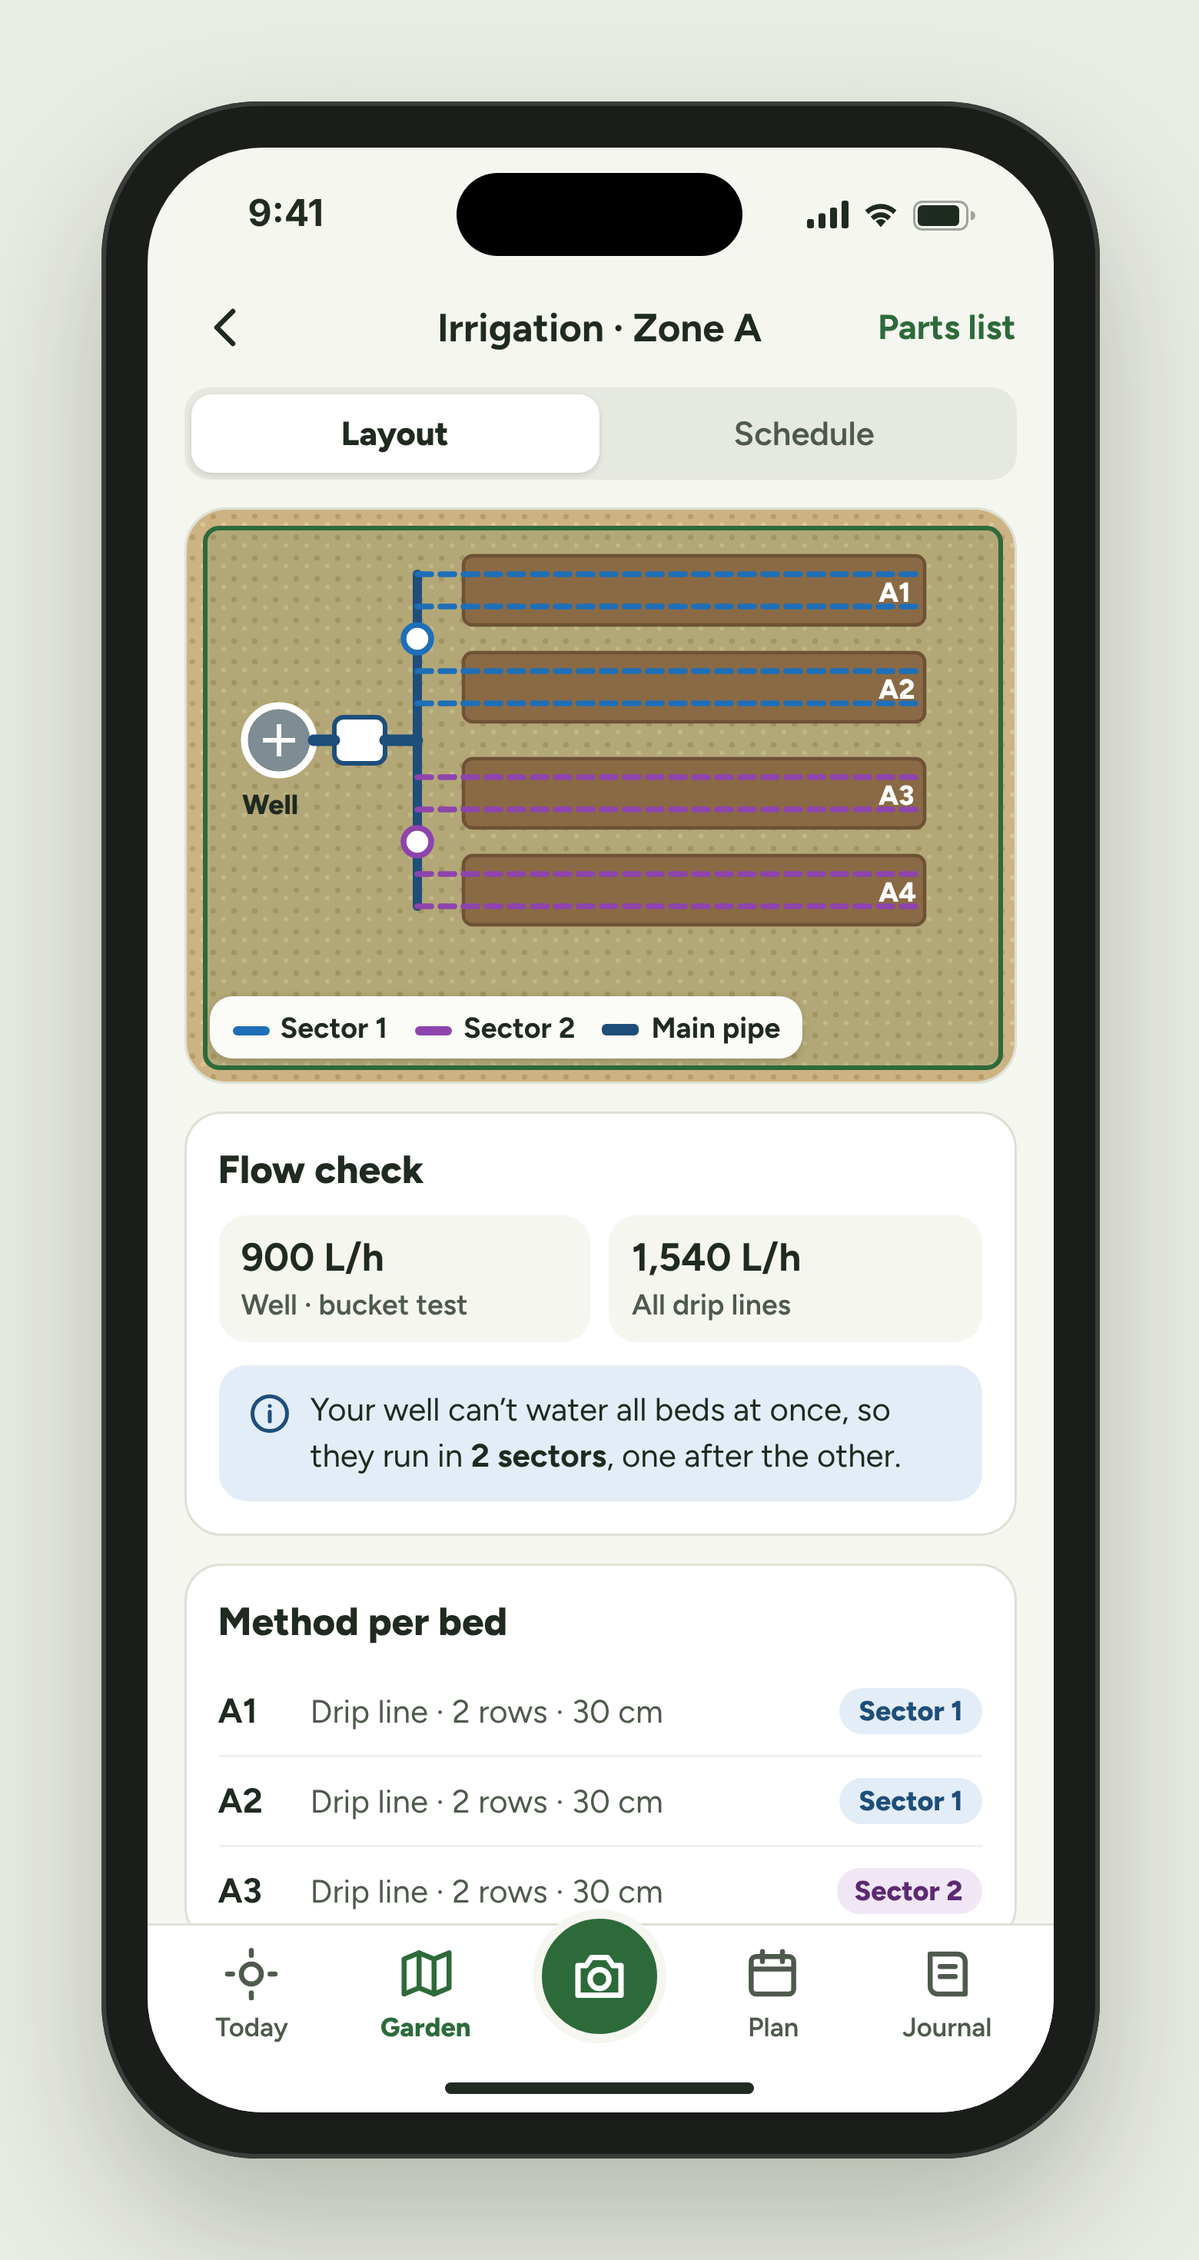
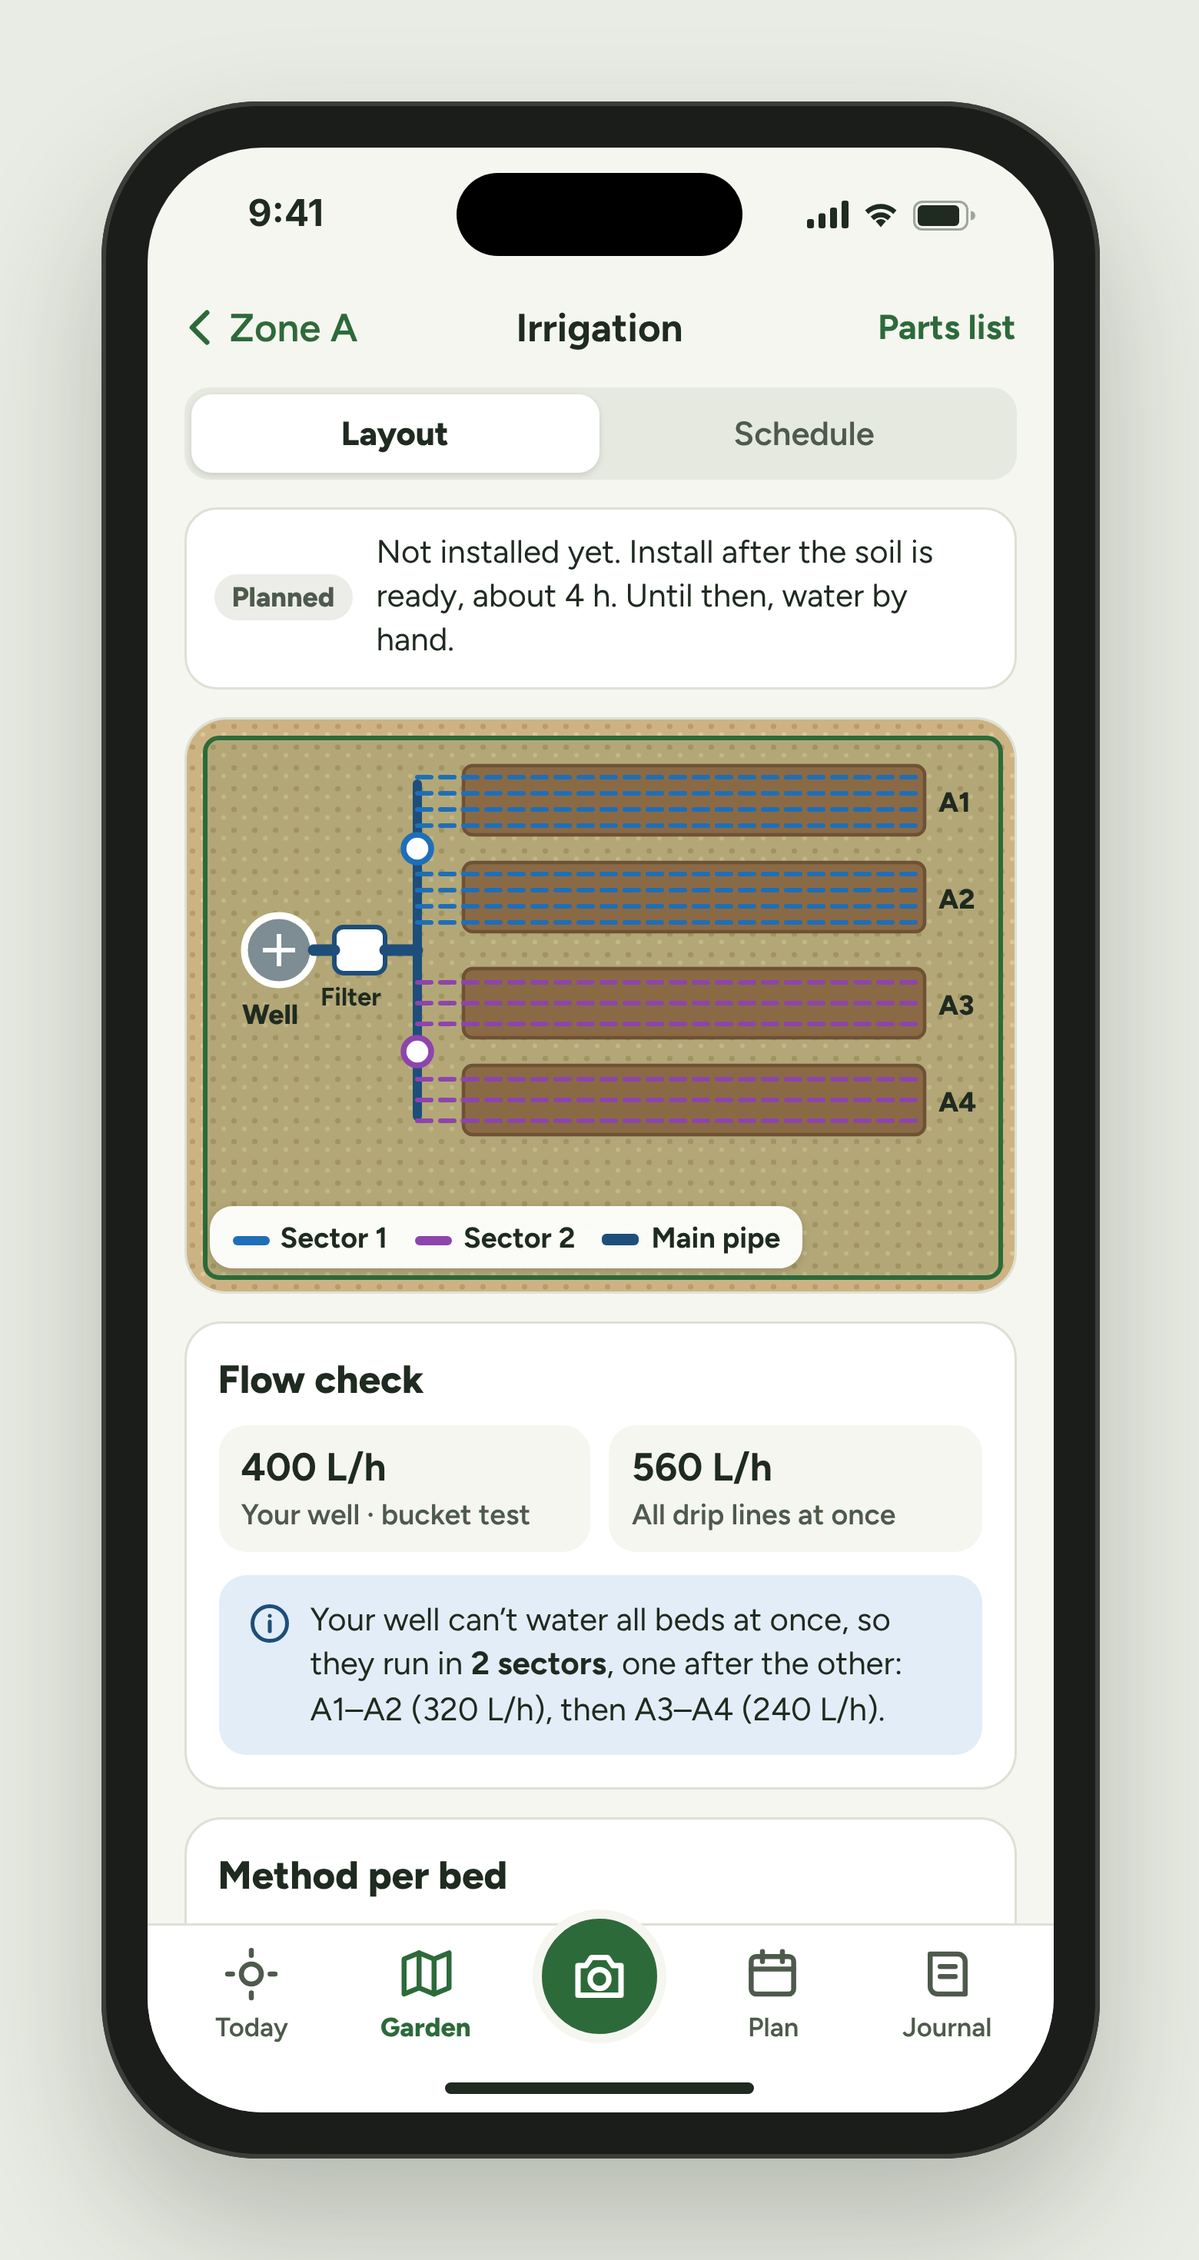
Design C6 irrigation planner: Zone A back label, planned status, consistent flow numbers and lines per bed
Claude-Session: https://claude.ai/code/session_015NynAjU4naPZwzmeuGazot

Changed region(s): [[0.1538, 0.2167, 0.8615, 0.8667], [0.3692, 0.1238, 0.6462, 0.1548], [0.1538, 0.1238, 0.3077, 0.1548]]

diff --git a/design/source/C6-irrigation-planner-full.html b/design/source/C6-irrigation-planner-full.html
@@ -1,0 +1,133 @@
+<!doctype html>
+<html lang="en">
+<head>
+<meta charset="utf-8">
+<title>C6 Irrigation planner</title>
+<link href="https://fonts.googleapis.com/css2?family=Figtree:wght@400;500;600;700;800&display=swap" rel="stylesheet">
+<link rel="stylesheet" href="frame.css">
+<style>
+  .nav { display: flex; align-items: center; gap: 8px; padding: 0 12px; height: 48px; flex: none; }
+  .nav .back { width: 44px; height: 44px; display: flex; align-items: center; justify-content: center; }
+  .nav .title { flex: 1; font-size: 17px; font-weight: 700; text-align: center; }
+  .nav .act { font-size: 15px; font-weight: 700; color: var(--green); width: 84px; text-align: right; padding-right: 4px; }
+  .content { flex: 1; overflow: hidden; padding: 2px 16px 0; display: flex; flex-direction: column; gap: 12px; }
+  .seg { display: grid; grid-template-columns: repeat(2, minmax(0, 1fr)); background: #E6E9E0; border-radius: 11px; padding: 3px; flex: none; }
+  .seg span { height: 34px; display: flex; align-items: center; justify-content: center; border-radius: 9px; font-size: 14.5px; font-weight: 600; color: var(--muted); }
+  .seg span.on { background: #fff; color: var(--text); font-weight: 800; box-shadow: 0 1px 3px rgba(0,0,0,.12); }
+  .mapcard { border-radius: 18px; overflow: hidden; position: relative; flex: none; height: 250px; border: 1px solid var(--line); }
+  .legend { position: absolute; left: 10px; bottom: 10px; background: rgba(255,255,255,.95); border-radius: 10px; padding: 6px 10px; display: flex; gap: 12px; font-size: 12.5px; font-weight: 700; box-shadow: 0 1px 4px rgba(0,0,0,.15); }
+  .legend i { display: inline-block; width: 16px; height: 4px; border-radius: 2px; vertical-align: middle; margin-right: 5px; }
+  .card { background: #fff; border: 1px solid var(--line); border-radius: 16px; padding: 14px; display: flex; flex-direction: column; gap: 10px; }
+  .card h2 { margin: 0; font-size: 17px; font-weight: 800; }
+  .flow { display: flex; gap: 8px; }
+  .flow div { flex: 1; background: var(--bg); border-radius: 12px; padding: 8px 10px; }
+  .flow strong { display: block; font-size: 17px; }
+  .flow span { font-size: 12.5px; color: var(--muted); font-weight: 600; }
+  .note { display: flex; gap: 8px; align-items: flex-start; font-size: 14px; color: var(--text); line-height: 1.4; background: var(--blue-soft); border-radius: 12px; padding: 10px 12px; }
+  .bed { display: flex; align-items: center; gap: 10px; padding: 9px 0; border-bottom: 1px solid #EEF0EA; font-size: 15px; }
+  .bed:last-child { border-bottom: none; padding-bottom: 0; }
+  .bed b { width: 30px; }
+  .bed .m { flex: 1; color: var(--muted); font-size: 14px; }
+  .pill { font-size: 12px; font-weight: 800; padding: 3px 8px; border-radius: 999px; }
+  .s1 { background: #E3EDF7; color: #1E4E7A; }
+  .s2 { background: #F1E6F6; color: #5B2A73; }
+  nav.tabs { flex: none; background: #fff; border-top: 1px solid var(--line); padding: 8px 8px 30px; display: grid; grid-template-columns: repeat(5, minmax(0, 1fr)); align-items: end; position: relative; z-index: 10; }
+  nav.tabs a { color: var(--muted); display: flex; flex-direction: column; align-items: center; gap: 3px; font-size: 11.5px; font-weight: 600; text-decoration: none; }
+  nav.tabs a.on { color: var(--green); font-weight: 800; }
+  .cam { width: 58px; height: 58px; border-radius: 999px; background: var(--green); display: flex; align-items: center; justify-content: center; margin-top: -24px; border: 4px solid var(--bg); }
+</style>
+<style>.stage{height:1180px}.phone{height:1120px}.screen{height:1080px}</style>
+</head>
+<body>
+<div class="stage"><div class="phone"><div class="screen">
+  <div class="island"></div>
+  <div class="status">
+    <span>9:41</span>
+    <span class="icons">
+      <svg width="18" height="12" viewBox="0 0 18 12"><rect x="0" y="8" width="3" height="4" rx="1" fill="#1F2A20"/><rect x="5" y="5.5" width="3" height="6.5" rx="1" fill="#1F2A20"/><rect x="10" y="3" width="3" height="9" rx="1" fill="#1F2A20"/><rect x="15" y="0" width="3" height="12" rx="1" fill="#1F2A20"/></svg>
+      <svg width="16" height="12" viewBox="0 0 16 12"><path d="M8 11.5l2.2-2.6a3.2 3.2 0 0 0-4.4 0z" fill="#1F2A20"/><path d="M3.6 6.9a6.3 6.3 0 0 1 8.8 0l-1.4 1.6a4.2 4.2 0 0 0-6 0z" fill="#1F2A20"/><path d="M1.2 4.2a9.7 9.7 0 0 1 13.6 0l-1.4 1.6a7.6 7.6 0 0 0-10.8 0z" fill="#1F2A20"/></svg>
+      <svg width="27" height="13" viewBox="0 0 27 13"><rect x="0.5" y="0.5" width="23" height="12" rx="3.5" fill="none" stroke="#1F2A20" opacity=".4"/><rect x="2" y="2" width="18" height="9" rx="2" fill="#1F2A20"/><path d="M25 4.5v4a2 2 0 0 0 0-4z" fill="#1F2A20" opacity=".4"/></svg>
+    </span>
+  </div>
+
+  <div class="nav">
+    <div class="back" style="width: 84px; justify-content: flex-start; gap: 2px; color: var(--green); font-size: 17px; font-weight: 600"><svg width="22" height="22" viewBox="0 0 24 24" fill="none" stroke="#2D6A3A" stroke-width="2.4" stroke-linecap="round" stroke-linejoin="round"><path d="M15 5l-7 7 7 7"/></svg>Zone A</div>
+    <div class="title">Irrigation</div>
+    <div class="act">Parts list</div>
+  </div>
+
+  <div class="content">
+    <div class="seg"><span class="on">Layout</span><span>Schedule</span></div>
+    <div style="display: flex; gap: 10px; align-items: center; background: #fff; border: 1px solid var(--line); border-radius: 14px; padding: 10px 12px; flex: none">
+      <span style="font-size: 12px; font-weight: 800; padding: 3px 8px; border-radius: 999px; background: #ECEDE8; color: #4E5A4C; flex: none">Planned</span>
+      <span style="font-size: 14px; line-height: 1.35">Not installed yet. Install after the soil is ready, about 4 h. Until then, water by hand.</span>
+    </div>
+
+    <div class="mapcard">
+      <svg width="361" height="250" viewBox="0 0 361 250" aria-hidden="true">
+        <defs>
+          <pattern id="dry" width="9" height="9" patternUnits="userSpaceOnUse"><rect width="9" height="9" fill="#CDB383"/><circle cx="2.5" cy="3" r="1.2" fill="#B89C69"/><circle cx="7" cy="6.5" r="1" fill="#DCC797"/></pattern>
+        </defs>
+        <rect width="361" height="250" fill="url(#dry)"/>
+        <rect x="8" y="8" width="345" height="234" rx="6" fill="rgba(45,106,58,.16)" stroke="#2D6A3A" stroke-width="2"/>
+        <!-- beds -->
+        <g fill="#8A6A45" stroke="#6E5235" stroke-width="1.5">
+          <rect x="120" y="20" width="200" height="30" rx="4"/>
+          <rect x="120" y="62" width="200" height="30" rx="4"/>
+          <rect x="120" y="108" width="200" height="30" rx="4"/>
+          <rect x="120" y="150" width="200" height="30" rx="4"/>
+        </g>
+        <g font-family="Figtree, sans-serif" font-size="12" font-weight="800" fill="#fff">
+          <text x="326" y="40" fill="#1F2A20">A1</text><text x="326" y="82" fill="#1F2A20">A2</text><text x="326" y="128" fill="#1F2A20">A3</text><text x="326" y="170" fill="#1F2A20">A4</text>
+        </g>
+        <circle cx="40" cy="100" r="15" fill="#7E8C93" stroke="#fff" stroke-width="3"/>
+        <path d="M33 100h14M40 93v14" stroke="#fff" stroke-width="2"/>
+        <rect x="64" y="90" width="22" height="20" rx="4" fill="#fff" stroke="#1E4E7A" stroke-width="2"/>
+        <path d="M55 100 H64 M86 100 H100" stroke="#1E4E7A" stroke-width="5" stroke-linecap="round"/>
+        <path d="M100 28 V172" stroke="#1E4E7A" stroke-width="4" stroke-linecap="round"/>
+        <circle cx="100" cy="56" r="6" fill="#fff" stroke="#1E6FB8" stroke-width="2.5"/>
+        <circle cx="100" cy="144" r="6" fill="#fff" stroke="#8E44AD" stroke-width="2.5"/>
+        <g stroke="#1E6FB8" stroke-width="2" stroke-dasharray="6 4" stroke-linecap="round"><path d="M100 25 H316"/><path d="M100 32 H316"/><path d="M100 39 H316"/><path d="M100 46 H316"/><path d="M100 67 H316"/><path d="M100 74 H316"/><path d="M100 81 H316"/><path d="M100 88 H316"/></g>
+        <g stroke="#8E44AD" stroke-width="2" stroke-dasharray="6 4" stroke-linecap="round"><path d="M100 114 H316"/><path d="M100 123 H316"/><path d="M100 132 H316"/><path d="M100 156 H316"/><path d="M100 165 H316"/><path d="M100 174 H316"/></g>
+        <text x="24" y="132" font-family="Figtree, sans-serif" font-size="12" font-weight="800" fill="#1F2A20">Well</text><text x="58" y="124" font-family="Figtree, sans-serif" font-size="11" font-weight="700" fill="#1F2A20">Filter</text>
+      </svg>
+      <div class="legend"><span><i style="background:#1E6FB8"></i>Sector 1</span><span><i style="background:#8E44AD"></i>Sector 2</span><span><i style="background:#1E4E7A; height: 5px"></i>Main pipe</span></div>
+    </div>
+
+    <div class="card">
+      <h2>Flow check</h2>
+      <div class="flow">
+        <div><strong>400 L/h</strong><span>Your well · bucket test</span></div>
+        <div><strong>560 L/h</strong><span>All drip lines at once</span></div>
+      </div>
+      <div class="note">
+        <svg width="20" height="20" viewBox="0 0 24 24" fill="none" stroke="#1E4E7A" stroke-width="2" stroke-linecap="round" stroke-linejoin="round" style="flex: none; margin-top: 1px"><circle cx="12" cy="12" r="9"/><path d="M12 11v5M12 8v.01"/></svg>
+        <span>Your well can’t water all beds at once, so they run in <b>2 sectors</b>, one after the other: A1–A2 (320 L/h), then A3–A4 (240 L/h).</span>
+      </div>
+    </div>
+
+    <div class="card" style="padding-bottom: 12px">
+      <h2>Method per bed</h2>
+      <div>
+        <div class="bed"><b>A1</b><span class="m">Drip · 4 lines · garlic, onions</span><span class="pill s1">Sector 1</span></div>
+        <div class="bed"><b>A2</b><span class="m">Drip · 4 lines · beans, peas</span><span class="pill s1">Sector 1</span></div>
+        <div class="bed"><b>A3</b><span class="m">Drip · 3 lines · lettuce</span><span class="pill s2">Sector 2</span></div>
+        <div class="bed"><b>A4</b><span class="m">Drip · 3 lines · lettuce</span><span class="pill s2">Sector 2</span></div>
+      </div>
+      <div style="font-size: 13px; color: var(--muted); font-weight: 600">One line per row · drippers every 30 cm · 2 L/h each</div>
+      <div style="display: none">
+      </div>
+    </div>
+  </div>
+
+  <nav class="tabs" aria-label="Main">
+    <a><svg width="26" height="26" viewBox="0 0 24 24" fill="none" stroke="currentColor" stroke-width="2" stroke-linecap="round"><circle cx="12" cy="12" r="4"/><path d="M12 2.5v2M12 19.5v2M2.5 12h2M19.5 12h2"/></svg>Today</a>
+    <a class="on"><svg width="26" height="26" viewBox="0 0 24 24" fill="none" stroke="currentColor" stroke-width="2" stroke-linecap="round" stroke-linejoin="round"><path d="M3 6l6-2.5 6 2.5 6-2.5v14l-6 2.5-6-2.5-6 2.5z"/><path d="M9 3.5v14M15 6v14"/></svg>Garden</a>
+    <a style="justify-content: center"><span class="cam"><svg width="28" height="28" viewBox="0 0 24 24" fill="none" stroke="#fff" stroke-width="2" stroke-linecap="round" stroke-linejoin="round"><path d="M4 8h3l2-3h6l2 3h3v11H4z"/><circle cx="12" cy="13" r="3.5"/></svg></span></a>
+    <a><svg width="26" height="26" viewBox="0 0 24 24" fill="none" stroke="currentColor" stroke-width="2" stroke-linecap="round" stroke-linejoin="round"><rect x="3.5" y="5" width="17" height="15" rx="2"/><path d="M3.5 10h17M8 3v4M16 3v4"/></svg>Plan</a>
+    <a><svg width="26" height="26" viewBox="0 0 24 24" fill="none" stroke="currentColor" stroke-width="2" stroke-linecap="round" stroke-linejoin="round"><path d="M5 4h11a3 3 0 0 1 3 3v13H8a3 3 0 0 1-3-3z"/><path d="M9 9h6M9 13h6"/></svg>Journal</a>
+  </nav>
+  <div class="home"></div>
+</div></div></div>
+</body>
+</html>

diff --git a/design/source/C6-irrigation-planner.html b/design/source/C6-irrigation-planner.html
@@ -50,13 +50,17 @@
   </div>
 
   <div class="nav">
-    <div class="back"><svg width="24" height="24" viewBox="0 0 24 24" fill="none" stroke="#1F2A20" stroke-width="2.2" stroke-linecap="round" stroke-linejoin="round"><path d="M15 5l-7 7 7 7"/></svg></div>
-    <div class="title" style="margin-left: 40px">Irrigation · Zone A</div>
+    <div class="back" style="width: 84px; justify-content: flex-start; gap: 2px; color: var(--green); font-size: 17px; font-weight: 600"><svg width="22" height="22" viewBox="0 0 24 24" fill="none" stroke="#2D6A3A" stroke-width="2.4" stroke-linecap="round" stroke-linejoin="round"><path d="M15 5l-7 7 7 7"/></svg>Zone A</div>
+    <div class="title">Irrigation</div>
     <div class="act">Parts list</div>
   </div>
 
   <div class="content">
     <div class="seg"><span class="on">Layout</span><span>Schedule</span></div>
+    <div style="display: flex; gap: 10px; align-items: center; background: #fff; border: 1px solid var(--line); border-radius: 14px; padding: 10px 12px; flex: none">
+      <span style="font-size: 12px; font-weight: 800; padding: 3px 8px; border-radius: 999px; background: #ECEDE8; color: #4E5A4C; flex: none">Planned</span>
+      <span style="font-size: 14px; line-height: 1.35">Not installed yet. Install after the soil is ready, about 4 h. Until then, water by hand.</span>
+    </div>
 
     <div class="mapcard">
       <svg width="361" height="250" viewBox="0 0 361 250" aria-hidden="true">
@@ -73,7 +77,7 @@
           <rect x="120" y="150" width="200" height="30" rx="4"/>
         </g>
         <g font-family="Figtree, sans-serif" font-size="12" font-weight="800" fill="#fff">
-          <text x="300" y="40">A1</text><text x="300" y="82">A2</text><text x="300" y="128">A3</text><text x="300" y="170">A4</text>
+          <text x="326" y="40" fill="#1F2A20">A1</text><text x="326" y="82" fill="#1F2A20">A2</text><text x="326" y="128" fill="#1F2A20">A3</text><text x="326" y="170" fill="#1F2A20">A4</text>
         </g>
         <circle cx="40" cy="100" r="15" fill="#7E8C93" stroke="#fff" stroke-width="3"/>
         <path d="M33 100h14M40 93v14" stroke="#fff" stroke-width="2"/>
@@ -82,13 +86,9 @@
         <path d="M100 28 V172" stroke="#1E4E7A" stroke-width="4" stroke-linecap="round"/>
         <circle cx="100" cy="56" r="6" fill="#fff" stroke="#1E6FB8" stroke-width="2.5"/>
         <circle cx="100" cy="144" r="6" fill="#fff" stroke="#8E44AD" stroke-width="2.5"/>
-        <g stroke="#1E6FB8" stroke-width="2.5" stroke-dasharray="6 4" stroke-linecap="round">
-          <path d="M100 28 H316"/><path d="M100 42 H316"/><path d="M100 70 H316"/><path d="M100 84 H316"/>
-        </g>
-        <g stroke="#8E44AD" stroke-width="2.5" stroke-dasharray="6 4" stroke-linecap="round">
-          <path d="M100 116 H316"/><path d="M100 130 H316"/><path d="M100 158 H316"/><path d="M100 172 H316"/>
-        </g>
-        <text x="24" y="132" font-family="Figtree, sans-serif" font-size="12" font-weight="800" fill="#1F2A20">Well</text>
+        <g stroke="#1E6FB8" stroke-width="2" stroke-dasharray="6 4" stroke-linecap="round"><path d="M100 25 H316"/><path d="M100 32 H316"/><path d="M100 39 H316"/><path d="M100 46 H316"/><path d="M100 67 H316"/><path d="M100 74 H316"/><path d="M100 81 H316"/><path d="M100 88 H316"/></g>
+        <g stroke="#8E44AD" stroke-width="2" stroke-dasharray="6 4" stroke-linecap="round"><path d="M100 114 H316"/><path d="M100 123 H316"/><path d="M100 132 H316"/><path d="M100 156 H316"/><path d="M100 165 H316"/><path d="M100 174 H316"/></g>
+        <text x="24" y="132" font-family="Figtree, sans-serif" font-size="12" font-weight="800" fill="#1F2A20">Well</text><text x="58" y="124" font-family="Figtree, sans-serif" font-size="11" font-weight="700" fill="#1F2A20">Filter</text>
       </svg>
       <div class="legend"><span><i style="background:#1E6FB8"></i>Sector 1</span><span><i style="background:#8E44AD"></i>Sector 2</span><span><i style="background:#1E4E7A; height: 5px"></i>Main pipe</span></div>
     </div>
@@ -96,21 +96,25 @@
     <div class="card">
       <h2>Flow check</h2>
       <div class="flow">
-        <div><strong>900 L/h</strong><span>Well · bucket test</span></div>
-        <div><strong>1,540 L/h</strong><span>All drip lines</span></div>
+        <div><strong>400 L/h</strong><span>Your well · bucket test</span></div>
+        <div><strong>560 L/h</strong><span>All drip lines at once</span></div>
       </div>
       <div class="note">
         <svg width="20" height="20" viewBox="0 0 24 24" fill="none" stroke="#1E4E7A" stroke-width="2" stroke-linecap="round" stroke-linejoin="round" style="flex: none; margin-top: 1px"><circle cx="12" cy="12" r="9"/><path d="M12 11v5M12 8v.01"/></svg>
-        <span>Your well can’t water all beds at once, so they run in <b>2 sectors</b>, one after the other.</span>
+        <span>Your well can’t water all beds at once, so they run in <b>2 sectors</b>, one after the other: A1–A2 (320 L/h), then A3–A4 (240 L/h).</span>
       </div>
     </div>
 
     <div class="card" style="padding-bottom: 12px">
       <h2>Method per bed</h2>
       <div>
-        <div class="bed"><b>A1</b><span class="m">Drip line · 2 rows · 30 cm</span><span class="pill s1">Sector 1</span></div>
-        <div class="bed"><b>A2</b><span class="m">Drip line · 2 rows · 30 cm</span><span class="pill s1">Sector 1</span></div>
-        <div class="bed"><b>A3</b><span class="m">Drip line · 2 rows · 30 cm</span><span class="pill s2">Sector 2</span></div>
+        <div class="bed"><b>A1</b><span class="m">Drip · 4 lines · garlic, onions</span><span class="pill s1">Sector 1</span></div>
+        <div class="bed"><b>A2</b><span class="m">Drip · 4 lines · beans, peas</span><span class="pill s1">Sector 1</span></div>
+        <div class="bed"><b>A3</b><span class="m">Drip · 3 lines · lettuce</span><span class="pill s2">Sector 2</span></div>
+        <div class="bed"><b>A4</b><span class="m">Drip · 3 lines · lettuce</span><span class="pill s2">Sector 2</span></div>
+      </div>
+      <div style="font-size: 13px; color: var(--muted); font-weight: 600">One line per row · drippers every 30 cm · 2 L/h each</div>
+      <div style="display: none">
       </div>
     </div>
   </div>
